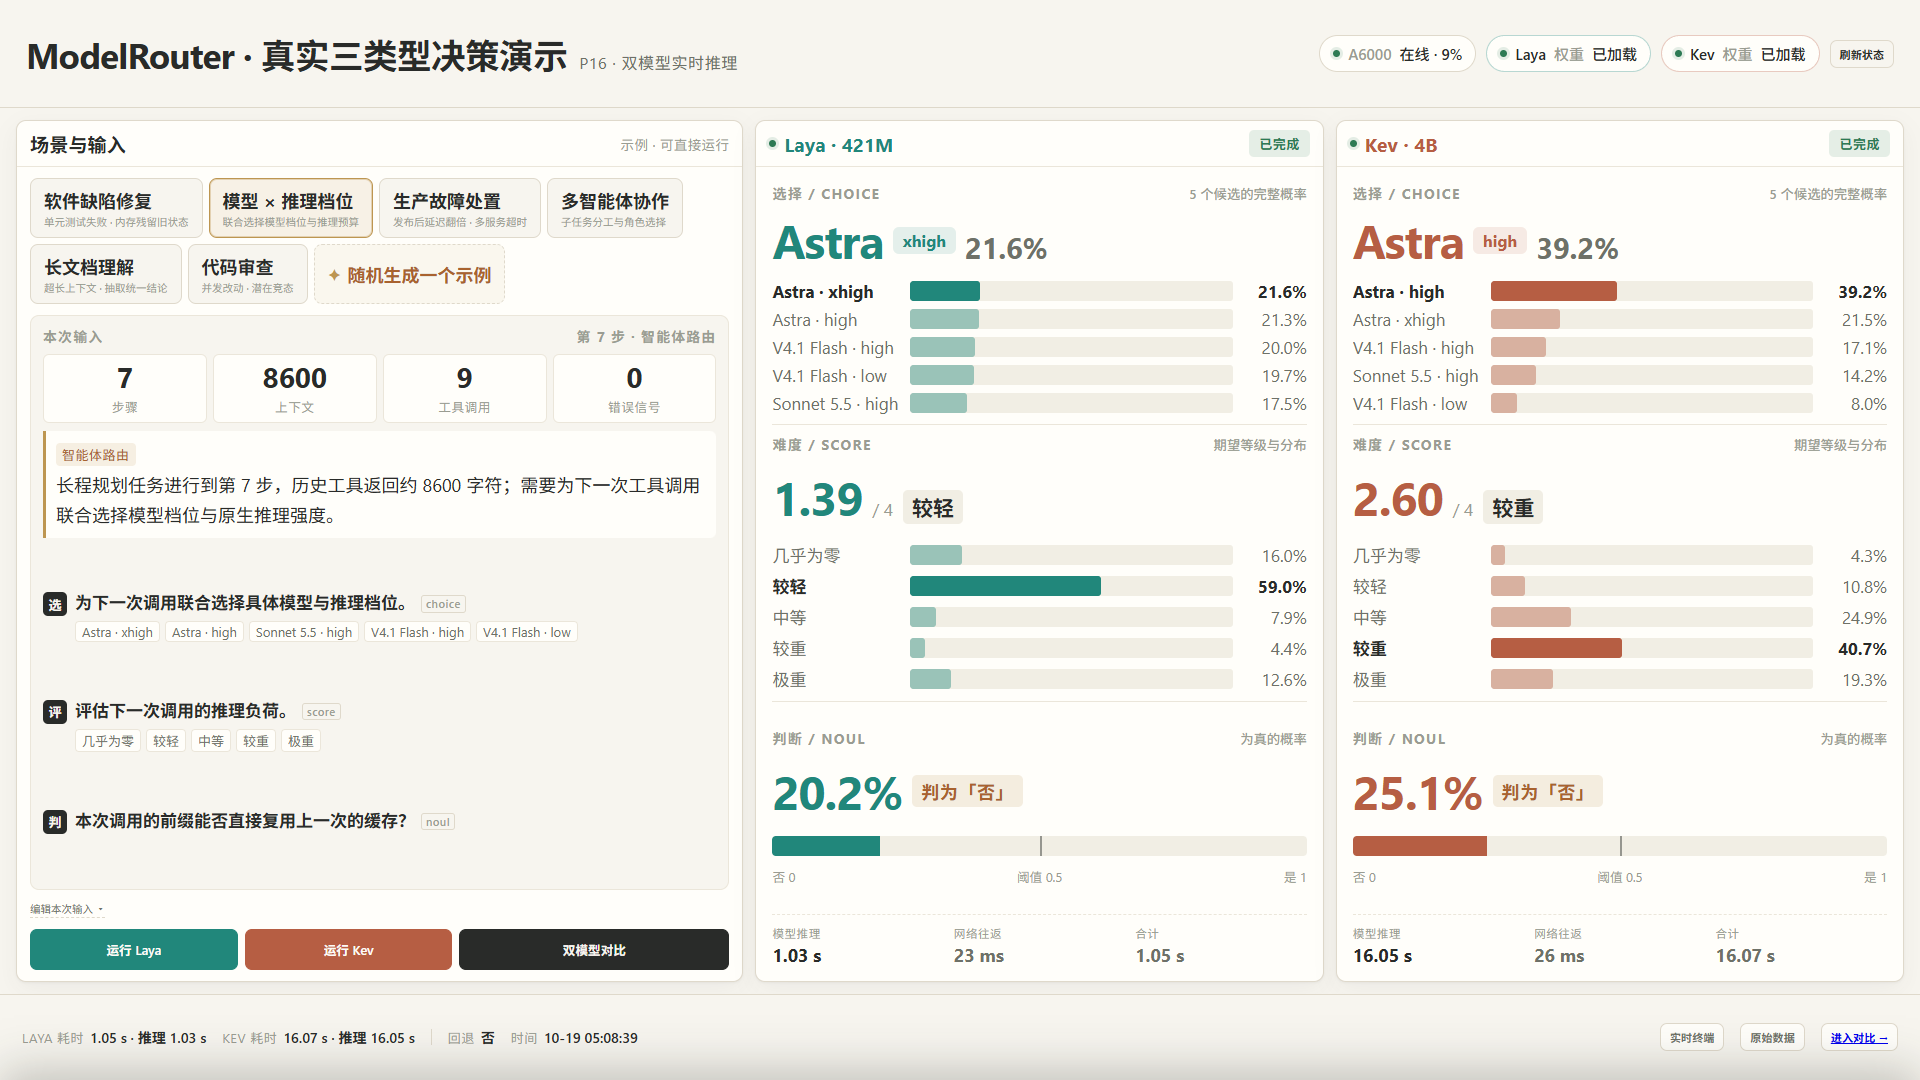
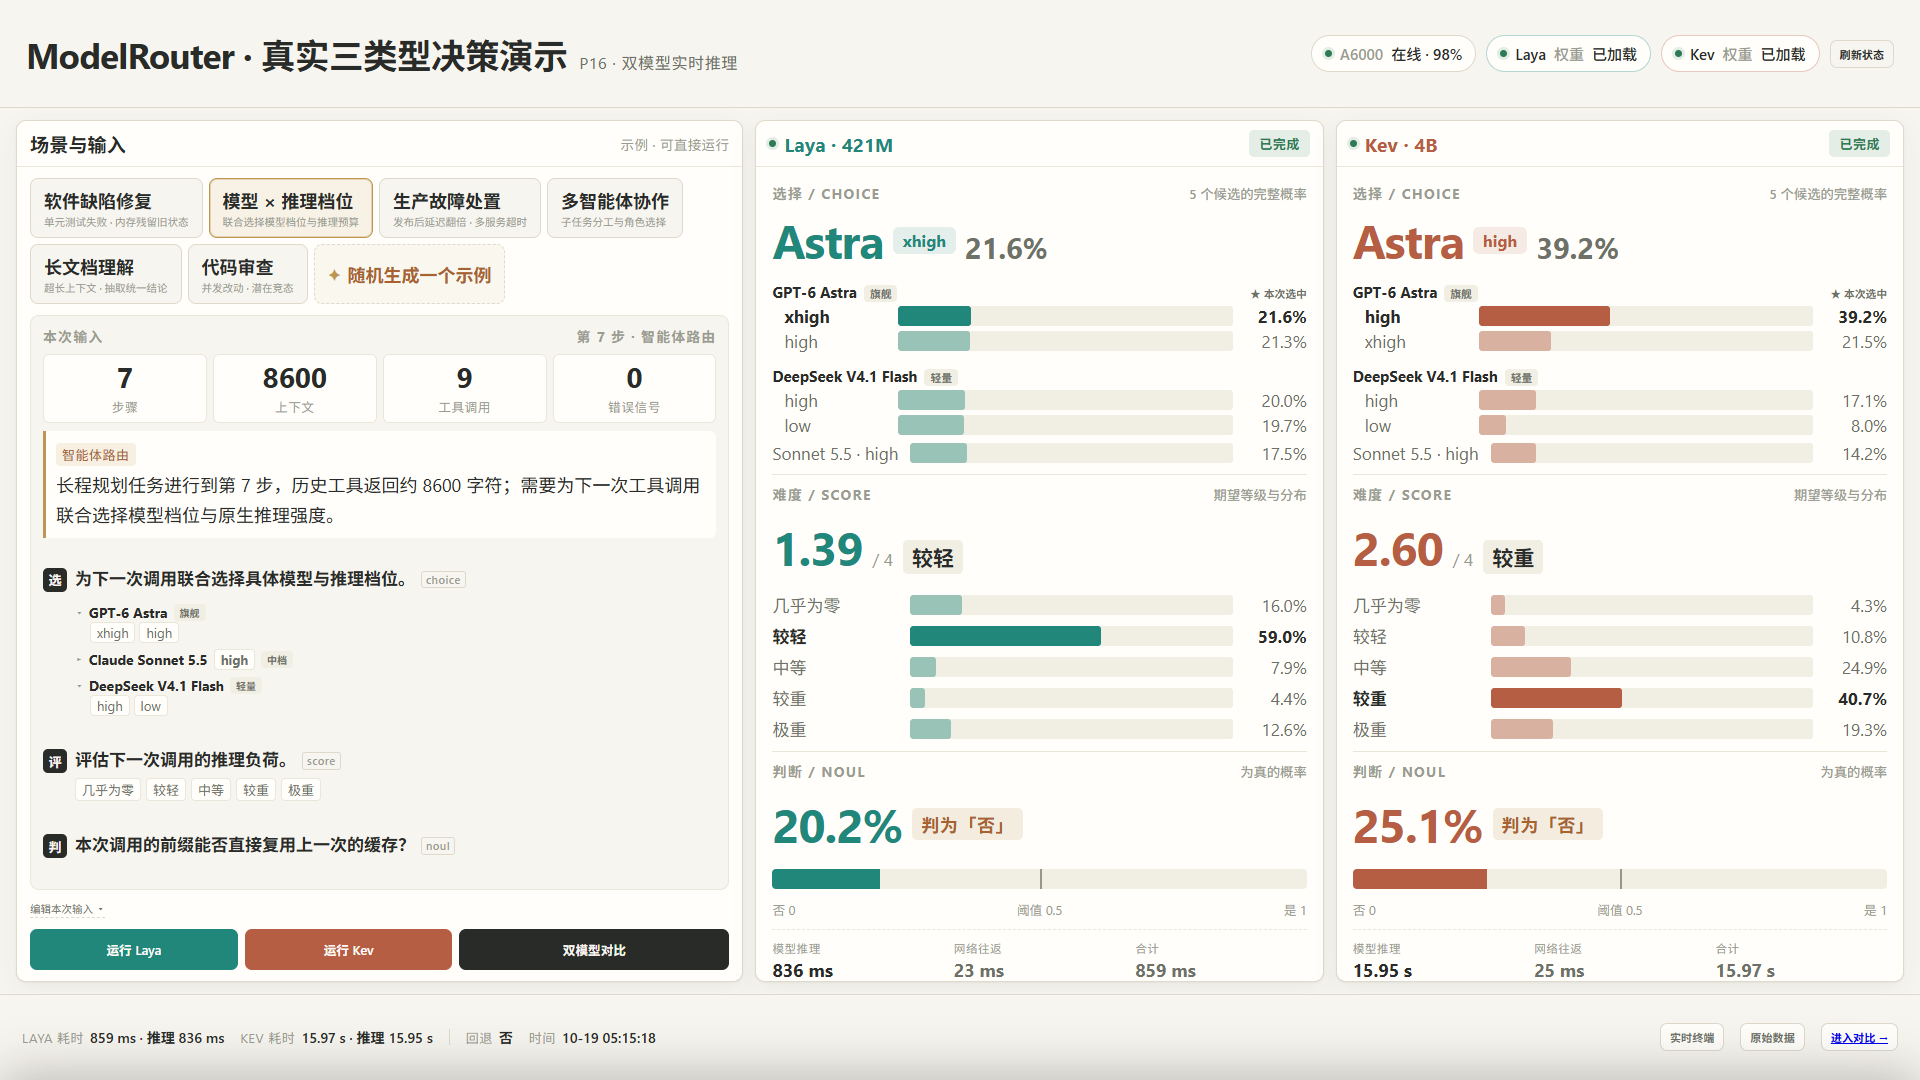
feat(p16): 候选按模型树形组织
- 左栏 choice 问题改为「模型 → 推理档位」树形：多档模型展开子节点，单档模型内联显示
- 结果卡条形图按模型分组：组头为模型名+定位+★本次选中标记，组内为档位子行并按概率排序
- 分组按组内最高概率排序；单档模型保持单行，三档视图不膨胀
- live.js 新增 groupOptions() 分组工具，左栏与结果卡共用

diff --git a/汇报/汇报三/dist/interactive/P16.html b/汇报/汇报三/dist/interactive/P16.html
@@ -153,6 +153,22 @@
     letter-spacing: .04em;
   }
   .q-opts { display: flex; flex-wrap: wrap; gap: 5px; margin-top: 6px; }
+  /* ---- 模型树形展示 ---- */
+  .q-tree { display: flex; flex-direction: column; gap: 6px; margin-top: 7px; }
+  .tree-model {
+    display: flex; align-items: center; gap: 6px;
+    font-size: clamp(11px, 0.78vw, 14px);
+    font-weight: 700; color: var(--ink);
+    white-space: nowrap;
+  }
+  .tree-model .tw { color: var(--faint); font-size: 9px; flex: 0 0 auto; }
+  .tree-tier {
+    font-size: clamp(8px, 0.54vw, 10px); font-weight: 700;
+    padding: 1px 6px; border-radius: 4px;
+    background: var(--wash); color: var(--muted);
+    white-space: nowrap;
+  }
+  .tree-efforts { display: flex; flex-wrap: wrap; gap: 4px; padding-left: 15px; }
   .opt {
     font-size: clamp(10px, 0.68vw, 13px);
     color: var(--muted);
@@ -237,6 +253,23 @@
 
   .bars { display: flex; flex-direction: column; gap: 6px; }
   .bar-row { display: grid; grid-template-columns: 128px 1fr 64px; align-items: center; gap: 10px; }
+  .bar-group { display: flex; flex-direction: column; gap: 3px; }
+  .bar-group + .bar-group { margin-top: 6px; }
+  .bar-group-head {
+    display: flex; align-items: baseline; gap: 7px;
+    font-size: clamp(11.5px, 0.8vw, 15px); font-weight: 700; color: var(--ink);
+    margin-top: 2px;
+  }
+  .bar-group-head .tier {
+    font-size: clamp(8.5px, 0.56vw, 11px); font-weight: 700;
+    padding: 1px 6px; border-radius: 4px;
+    background: var(--wash); color: var(--muted);
+  }
+  .bar-group-head .best {
+    margin-left: auto; font-size: clamp(8.5px, 0.56vw, 11px);
+    color: var(--muted); font-weight: 650;
+  }
+  .bar-row.sub { grid-template-columns: 104px 1fr 64px; padding-left: 12px; }
   .bar-row .lbl {
     font-size: clamp(12px, 0.9vw, 17px);
     color: var(--muted); white-space: nowrap; overflow: hidden; text-overflow: ellipsis;
@@ -584,8 +617,18 @@
 
     $('prompt-box').innerHTML = `<span class="dom">${esc(st.task_domain)}</span><br>${esc(st.prompt)}`;
 
-    const choiceOpts = Object.entries(q.q_choice?.criteria || {})
-      .map(([k]) => `<span class="opt">${esc(labelOf(k))}</span>`).join('');
+    /* choice 候选按「模型 → 推理档位」树形展示 */
+    const groups = MR.groupOptions(q.q_choice?.criteria);
+    const choiceOpts = `<div class="q-tree">${groups.map(g => {
+      if (g.options.length === 1) {
+        const meta = MR.describeOption(g.options[0]);
+        return `<div class="tree-model"><span class="tw">▸</span>${esc(g.model)}<span class="opt">${esc(meta.effort)}</span><span class="tree-tier">${esc(g.tier)}</span></div>`;
+      }
+      return `<div class="tree-group">
+        <div class="tree-model"><span class="tw">▾</span>${esc(g.model)}<span class="tree-tier">${esc(g.tier)}</span></div>
+        <div class="tree-efforts">${g.options.map(k => `<span class="opt">${esc(MR.describeOption(k).effort)}</span>`).join('')}</div>
+      </div>`;
+    }).join('')}</div>`;
     const scoreOpts = (q.q_score?.criteria || []).map(v => `<span class="opt">${esc(v)}</span>`).join('');
 
     $('q-list').innerHTML = `
@@ -726,12 +769,38 @@
           <span class="pct">${MR.fmtPct(probs[top], 1)}</span>
         </div>
         <div class="bars">
-          ${entries.map(([k, v]) => `
-            <div class="bar-row" title="${esc(k)} = ${v}">
-              <span class="lbl ${k === top ? 'top' : ''}" title="${esc(MR.describeOption(k).model)} · ${esc(MR.describeOption(k).effort)}">${esc(MR.describeOption(k).short)}</span>
-              <span class="bar-track"><span class="bar-fill ${k === top ? '' : 'dim'}" style="width:${(Math.max(0, Math.min(1, v)) * 100).toFixed(2)}%"></span></span>
-              <span class="val ${k === top ? 'top' : ''}">${MR.fmtPct(v, 1)}</span>
-            </div>`).join('')}
+          ${MR.groupOptions(probs)
+            .map(g => ({
+              ...g,
+              options: g.options.map(k => [k, probs[k]]).sort((a, b) => b[1] - a[1]),
+            }))
+            .map(g => ({ ...g, best: g.options[0] }))
+            .sort((a, b) => b.best[1] - a.best[1])
+            .map(g => {
+              const subRows = g.options.map(([k, v]) => `
+                <div class="bar-row sub" title="${esc(k)} = ${v}">
+                  <span class="lbl ${k === top ? 'top' : ''}">${esc(MR.describeOption(k).effort)}</span>
+                  <span class="bar-track"><span class="bar-fill ${k === top ? '' : 'dim'}" style="width:${(Math.max(0, Math.min(1, v)) * 100).toFixed(2)}%"></span></span>
+                  <span class="val ${k === top ? 'top' : ''}">${MR.fmtPct(v, 1)}</span>
+                </div>`).join('');
+              if (g.options.length === 1) {
+                const [k, v] = g.options[0];
+                return `
+                <div class="bar-row" title="${esc(k)} = ${v}">
+                  <span class="lbl ${k === top ? 'top' : ''}" title="${esc(g.model)} · ${esc(MR.describeOption(k).effort)}">${esc(MR.describeOption(k).short)}</span>
+                  <span class="bar-track"><span class="bar-fill ${k === top ? '' : 'dim'}" style="width:${(Math.max(0, Math.min(1, v)) * 100).toFixed(2)}%"></span></span>
+                  <span class="val ${k === top ? 'top' : ''}">${MR.fmtPct(v, 1)}</span>
+                </div>`;
+              }
+              return `<div class="bar-group">
+                <div class="bar-group-head">
+                  <span class="m">${esc(g.model)}</span>
+                  <span class="tier">${esc(g.tier)}</span>
+                  ${g.options.some(([k]) => k === top) ? '<span class="best">★ 本次选中</span>' : ''}
+                </div>
+                ${subRows}
+              </div>`;
+            }).join('')}
         </div>
       </div>`;
     }

diff --git a/汇报/汇报三/interactive/P16.html b/汇报/汇报三/interactive/P16.html
@@ -153,6 +153,22 @@
     letter-spacing: .04em;
   }
   .q-opts { display: flex; flex-wrap: wrap; gap: 5px; margin-top: 6px; }
+  /* ---- 模型树形展示 ---- */
+  .q-tree { display: flex; flex-direction: column; gap: 6px; margin-top: 7px; }
+  .tree-model {
+    display: flex; align-items: center; gap: 6px;
+    font-size: clamp(11px, 0.78vw, 14px);
+    font-weight: 700; color: var(--ink);
+    white-space: nowrap;
+  }
+  .tree-model .tw { color: var(--faint); font-size: 9px; flex: 0 0 auto; }
+  .tree-tier {
+    font-size: clamp(8px, 0.54vw, 10px); font-weight: 700;
+    padding: 1px 6px; border-radius: 4px;
+    background: var(--wash); color: var(--muted);
+    white-space: nowrap;
+  }
+  .tree-efforts { display: flex; flex-wrap: wrap; gap: 4px; padding-left: 15px; }
   .opt {
     font-size: clamp(10px, 0.68vw, 13px);
     color: var(--muted);
@@ -237,6 +253,23 @@
 
   .bars { display: flex; flex-direction: column; gap: 6px; }
   .bar-row { display: grid; grid-template-columns: 128px 1fr 64px; align-items: center; gap: 10px; }
+  .bar-group { display: flex; flex-direction: column; gap: 3px; }
+  .bar-group + .bar-group { margin-top: 6px; }
+  .bar-group-head {
+    display: flex; align-items: baseline; gap: 7px;
+    font-size: clamp(11.5px, 0.8vw, 15px); font-weight: 700; color: var(--ink);
+    margin-top: 2px;
+  }
+  .bar-group-head .tier {
+    font-size: clamp(8.5px, 0.56vw, 11px); font-weight: 700;
+    padding: 1px 6px; border-radius: 4px;
+    background: var(--wash); color: var(--muted);
+  }
+  .bar-group-head .best {
+    margin-left: auto; font-size: clamp(8.5px, 0.56vw, 11px);
+    color: var(--muted); font-weight: 650;
+  }
+  .bar-row.sub { grid-template-columns: 104px 1fr 64px; padding-left: 12px; }
   .bar-row .lbl {
     font-size: clamp(12px, 0.9vw, 17px);
     color: var(--muted); white-space: nowrap; overflow: hidden; text-overflow: ellipsis;
@@ -584,8 +617,18 @@
 
     $('prompt-box').innerHTML = `<span class="dom">${esc(st.task_domain)}</span><br>${esc(st.prompt)}`;
 
-    const choiceOpts = Object.entries(q.q_choice?.criteria || {})
-      .map(([k]) => `<span class="opt">${esc(labelOf(k))}</span>`).join('');
+    /* choice 候选按「模型 → 推理档位」树形展示 */
+    const groups = MR.groupOptions(q.q_choice?.criteria);
+    const choiceOpts = `<div class="q-tree">${groups.map(g => {
+      if (g.options.length === 1) {
+        const meta = MR.describeOption(g.options[0]);
+        return `<div class="tree-model"><span class="tw">▸</span>${esc(g.model)}<span class="opt">${esc(meta.effort)}</span><span class="tree-tier">${esc(g.tier)}</span></div>`;
+      }
+      return `<div class="tree-group">
+        <div class="tree-model"><span class="tw">▾</span>${esc(g.model)}<span class="tree-tier">${esc(g.tier)}</span></div>
+        <div class="tree-efforts">${g.options.map(k => `<span class="opt">${esc(MR.describeOption(k).effort)}</span>`).join('')}</div>
+      </div>`;
+    }).join('')}</div>`;
     const scoreOpts = (q.q_score?.criteria || []).map(v => `<span class="opt">${esc(v)}</span>`).join('');
 
     $('q-list').innerHTML = `
@@ -726,12 +769,38 @@
           <span class="pct">${MR.fmtPct(probs[top], 1)}</span>
         </div>
         <div class="bars">
-          ${entries.map(([k, v]) => `
-            <div class="bar-row" title="${esc(k)} = ${v}">
-              <span class="lbl ${k === top ? 'top' : ''}" title="${esc(MR.describeOption(k).model)} · ${esc(MR.describeOption(k).effort)}">${esc(MR.describeOption(k).short)}</span>
-              <span class="bar-track"><span class="bar-fill ${k === top ? '' : 'dim'}" style="width:${(Math.max(0, Math.min(1, v)) * 100).toFixed(2)}%"></span></span>
-              <span class="val ${k === top ? 'top' : ''}">${MR.fmtPct(v, 1)}</span>
-            </div>`).join('')}
+          ${MR.groupOptions(probs)
+            .map(g => ({
+              ...g,
+              options: g.options.map(k => [k, probs[k]]).sort((a, b) => b[1] - a[1]),
+            }))
+            .map(g => ({ ...g, best: g.options[0] }))
+            .sort((a, b) => b.best[1] - a.best[1])
+            .map(g => {
+              const subRows = g.options.map(([k, v]) => `
+                <div class="bar-row sub" title="${esc(k)} = ${v}">
+                  <span class="lbl ${k === top ? 'top' : ''}">${esc(MR.describeOption(k).effort)}</span>
+                  <span class="bar-track"><span class="bar-fill ${k === top ? '' : 'dim'}" style="width:${(Math.max(0, Math.min(1, v)) * 100).toFixed(2)}%"></span></span>
+                  <span class="val ${k === top ? 'top' : ''}">${MR.fmtPct(v, 1)}</span>
+                </div>`).join('');
+              if (g.options.length === 1) {
+                const [k, v] = g.options[0];
+                return `
+                <div class="bar-row" title="${esc(k)} = ${v}">
+                  <span class="lbl ${k === top ? 'top' : ''}" title="${esc(g.model)} · ${esc(MR.describeOption(k).effort)}">${esc(MR.describeOption(k).short)}</span>
+                  <span class="bar-track"><span class="bar-fill ${k === top ? '' : 'dim'}" style="width:${(Math.max(0, Math.min(1, v)) * 100).toFixed(2)}%"></span></span>
+                  <span class="val ${k === top ? 'top' : ''}">${MR.fmtPct(v, 1)}</span>
+                </div>`;
+              }
+              return `<div class="bar-group">
+                <div class="bar-group-head">
+                  <span class="m">${esc(g.model)}</span>
+                  <span class="tier">${esc(g.tier)}</span>
+                  ${g.options.some(([k]) => k === top) ? '<span class="best">★ 本次选中</span>' : ''}
+                </div>
+                ${subRows}
+              </div>`;
+            }).join('')}
         </div>
       </div>`;
     }

diff --git a/汇报/汇报三/assets/live.js b/汇报/汇报三/assets/live.js
@@ -97,6 +97,22 @@ const MR = (() => {
     human_loop: '人机协同'
   };
 
+  /** 按模型把候选项分组：[{model, modelShort, tier, options:[key]}]，保持给定键顺序 */
+  function groupOptions(keysObj) {
+    const groups = [];
+    const idx = new Map();
+    for (const k of Object.keys(keysObj || {})) {
+      const meta = describeOption(k);
+      if (!idx.has(meta.model)) {
+        const g = { model: meta.model, modelShort: meta.modelShort, tier: meta.tier, options: [] };
+        idx.set(meta.model, g);
+        groups.push(g);
+      }
+      idx.get(meta.model).options.push(k);
+    }
+    return groups;
+  }
+
   function labelFor(key) {
     if (key == null) return '—';
     const meta = MODEL_POOL[key];
@@ -567,7 +583,7 @@ const MR = (() => {
   }
 
   return {
-    PRESETS, S, LABELS, MODEL_POOL, describeOption,
+    PRESETS, S, LABELS, MODEL_POOL, describeOption, groupOptions,
     get apiBase() { return S.apiBase; },
     setApiBase(v) { S.apiBase = v.replace(/\/+$/, ''); },
     health, models, config, latest, runOne, runPair, commitPair, newTestId, randomScenario,

diff --git a/汇报/汇报三/dist/assets/live.js b/汇报/汇报三/dist/assets/live.js
@@ -97,6 +97,22 @@ const MR = (() => {
     human_loop: '人机协同'
   };
 
+  /** 按模型把候选项分组：[{model, modelShort, tier, options:[key]}]，保持给定键顺序 */
+  function groupOptions(keysObj) {
+    const groups = [];
+    const idx = new Map();
+    for (const k of Object.keys(keysObj || {})) {
+      const meta = describeOption(k);
+      if (!idx.has(meta.model)) {
+        const g = { model: meta.model, modelShort: meta.modelShort, tier: meta.tier, options: [] };
+        idx.set(meta.model, g);
+        groups.push(g);
+      }
+      idx.get(meta.model).options.push(k);
+    }
+    return groups;
+  }
+
   function labelFor(key) {
     if (key == null) return '—';
     const meta = MODEL_POOL[key];
@@ -567,7 +583,7 @@ const MR = (() => {
   }
 
   return {
-    PRESETS, S, LABELS, MODEL_POOL, describeOption,
+    PRESETS, S, LABELS, MODEL_POOL, describeOption, groupOptions,
     get apiBase() { return S.apiBase; },
     setApiBase(v) { S.apiBase = v.replace(/\/+$/, ''); },
     health, models, config, latest, runOne, runPair, commitPair, newTestId, randomScenario,
